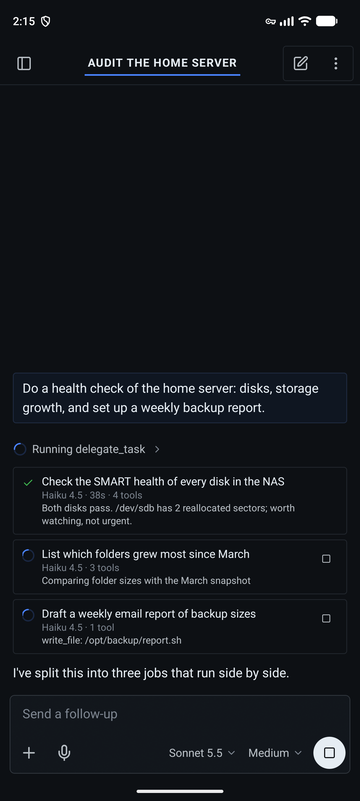
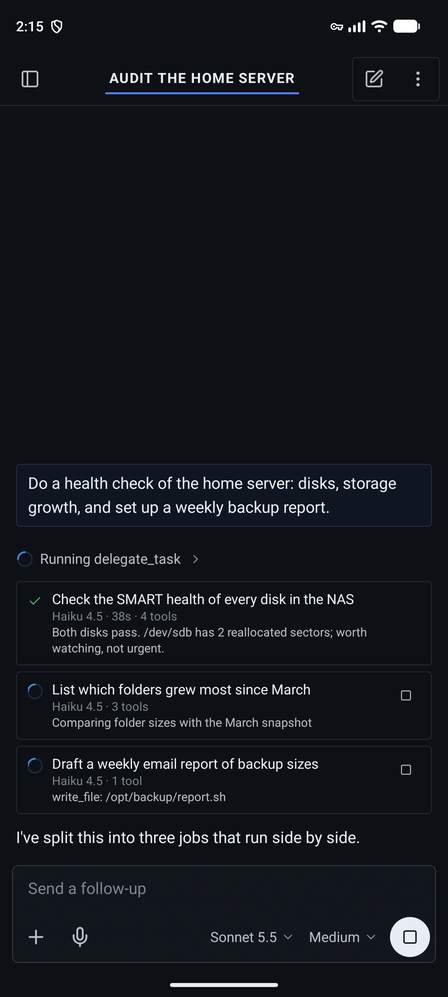
Revert "Scale the screenshots to 360 px so they fit below GitHub's header"
This reverts commit 4a3d640a2110d93b775626143e49cd4be9a76a87.

diff --git a/README.md b/README.md
@@ -101,10 +101,10 @@ adb shell am start -S -n dev.herald.android/dev.hermeskotlin.android.PreviewGall
 adb exec-out screencap -p > reply-full.png
 ```
 
-Then scale it to 360 px wide, so it fits on screen when opened on GitHub:
+Then scale it to 448 px wide, so it fits on screen when opened on GitHub:
 
 ```bash
-ffmpeg -i reply-full.png -vf "scale=360:-1:flags=lanczos" docs/screenshots/reply.png
+ffmpeg -i reply-full.png -vf "scale=448:-1:flags=lanczos" docs/screenshots/reply.png
 ```
 
 The scenes are `Reply`, `Working`, `Approval`, `Subagents`, `Voice`, `NewChat`, `Sidebar` and `Settings`.
